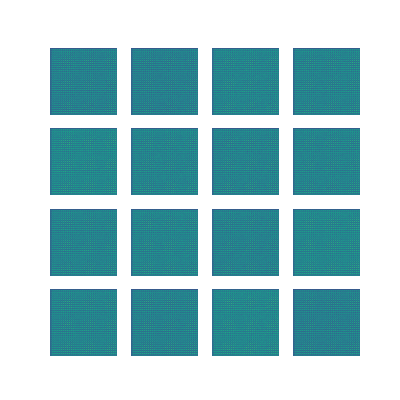
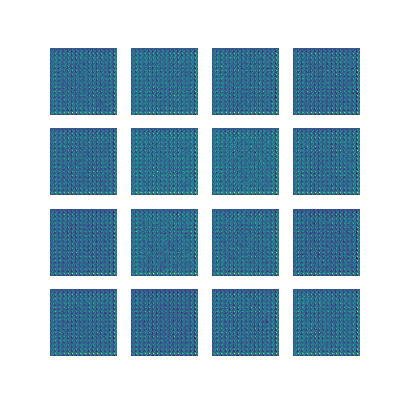
Add Test Code for TensorClassifier + Clean Code + Modify GAN code

diff --git a/tensorGAN.py b/tensorGAN.py
@@ -10,8 +10,8 @@ import time
 
 from IPython import display
 
-img_height = 128
-img_width = 128
+img_height = 64
+img_width = 64
 BATCH_SIZE = 256
 data_dir = "artbench-10-imagefolder-split/test"
 
@@ -42,32 +42,32 @@ print(train_dataset)
 
 def make_generator_model():
     model = tf.keras.Sequential()
-    model.add(layers.Dense(32*32*256, use_bias=False, input_shape=(100,)))
+    model.add(layers.Dense(16*16*256, use_bias=False, input_shape=(100,)))
     model.add(layers.BatchNormalization())
     model.add(layers.LeakyReLU())
 
-    model.add(layers.Reshape((32, 32, 256)))
-    assert model.output_shape == (None, 32, 32, 256)  # Note: None is the batch size
+    model.add(layers.Reshape((16, 16, 256)))
+    assert model.output_shape == (None, 16, 16, 256)  # Note: None is the batch size
 
     model.add(layers.Conv2DTranspose(128, (5, 5), strides=(1, 1), padding='same', use_bias=False))
-    assert model.output_shape == (None, 32, 32, 128)
+    assert model.output_shape == (None, 16, 16, 128)
     model.add(layers.BatchNormalization())
     model.add(layers.LeakyReLU())
 
     model.add(layers.Conv2DTranspose(64, (5, 5), strides=(2, 2), padding='same', use_bias=False))
-    assert model.output_shape == (None, 64, 64, 64)
+    assert model.output_shape == (None, 32, 32, 64)
     model.add(layers.BatchNormalization())
     model.add(layers.LeakyReLU())
 
     model.add(layers.Conv2DTranspose(3, (5, 5), strides=(2, 2), padding='same', use_bias=False, activation='tanh'))
-    assert model.output_shape == (None, 128, 128, 3)
+    assert model.output_shape == (None, 64, 64, 3)
 
     return model
 
 def make_discriminator_model():
     model = tf.keras.Sequential()
     model.add(layers.Conv2D(64, (5, 5), strides=(2, 2), padding='same',
-                                     input_shape=[128, 128, 3]))
+                                     input_shape=[64, 64, 3]))
     model.add(layers.LeakyReLU())
     model.add(layers.Dropout(0.3))
 
@@ -167,7 +167,7 @@ print (decision)
 generator_optimizer = tf.keras.optimizers.Adam(1e-4)
 
 discriminator_optimizer = tf.keras.optimizers.Adam(1e-4)
-checkpoint_dir = './training_checkpoints'
+checkpoint_dir = './training_checkpoints_smallDataset'
 checkpoint_prefix = os.path.join(checkpoint_dir, "ckpt")
 checkpoint = tf.train.Checkpoint(generator_optimizer=generator_optimizer,
                                  discriminator_optimizer=discriminator_optimizer,

diff --git a/tensorClassifier.py b/tensorClassifier.py
@@ -1,9 +1,12 @@
+import os
+import random
 from os import mkdir
 
 import matplotlib.pyplot as plt
 import numpy as np
 import PIL
 import tensorflow as tf
+from numpy import mean
 
 from tensorflow import keras
 from tensorflow.keras import layers
@@ -11,9 +14,9 @@ from tensorflow.keras.models import Sequential
 
 def buildModel():
   batch_size = 32
-  img_height = 128
-  img_width = 128
-  data_dir = "artbench-10-imagefolder-split/test"
+  img_height = 64
+  img_width = 64
+  data_dir = "artbench-10-imagefolder-split-two/train_two"
 
   train_ds = tf.keras.utils.image_dataset_from_directory(
     data_dir,
@@ -53,6 +56,7 @@ def buildModel():
     layers.MaxPooling2D(),
     layers.Conv2D(64, 3, padding='same', activation='relu'),
     layers.MaxPooling2D(),
+    layers.Dropout(0.2),
     layers.Flatten(),
     layers.Dense(128, activation='relu'),
     layers.Dense(num_classes)
@@ -64,13 +68,13 @@ def buildModel():
 
   model.summary()
 
-  epochs=5
+  epochs=15
   model.fit(
     train_ds,
     validation_data=val_ds,
     epochs=epochs
   )
-  model.save('saved_model/myTensorFlowModel')
+  model.save('saved_model/myTensorFlowClassifierModelMiniDropoutTwoNewWithout')
 
   # history.save('saved_model/myTensorFlowModel')
   # acc = history.history['accuracy']
@@ -95,29 +99,6 @@ def buildModel():
   # plt.title('Training and Validation Loss')
   # plt.show()
 
-def loadModel():
-  new_model = tf.keras.models.load_model('saved_model/myTensorFlowModel')
-  return new_model
 
-# buildModel()
-def getScore(model,img_array):
-  # sunflower_url = "https://storage.googleapis.com/download.tensorflow.org/example_images/592px-Red_sunflower.jpg"
-  # sunflower_path = tf.keras.utils.get_file('Red_sunflower', origin=sunflower_url)
-  #
-  # img = tf.keras.utils.load_img(
-  #     sunflower_path, target_size=(128, 128)
-  # )
-  # img_array = tf.keras.utils.img_to_array(img)
-  # print(len(img_array[0][0]))
-  img_array = tf.expand_dims(img_array, 0) # Create a batch
+buildModel()
 
-  predictions = model.predict(img_array)
-  score = tf.nn.softmax(predictions[0])
-  return score
-#
-# print(
-#     "This image most likely belongs to {} with a {:.2f} percent confidence."
-#     .format(class_names[np.argmax(score)], 100 * np.max(score))
-# )
-# model = loadModel()
-# getScore(model,"hi")

diff --git a/EvaluateTensorClassifier.py b/EvaluateTensorClassifier.py
@@ -1,0 +1,50 @@
+import os
+import random
+
+import numpy as np
+import tensorflow as tf
+from numpy import mean
+
+def loadModel(modelLocation):
+  new_model = tf.keras.models.load_model(modelLocation)
+  return new_model
+
+
+def getTestImages(folderName,n):
+  """ Function returns an array of n random image names from the given folder."""
+  testImages = []
+  labels = ["art_nouveau", "ukiyo_e"]
+  for label in labels:
+    files = os.listdir(folderName + label + "/")
+    random.shuffle(files)
+    testImages.append(files[0:n])
+  return testImages
+
+def getScore(model,directory):
+  confusionMatrix = [[0,0,0,0,0,0],[0,0,0,0,0,0]]
+  class_names = [""]
+  for folder in range(1):
+    scores = []
+    for filename in os.listdir(directory):
+      file_url = directory + class_names[folder] + "/" + filename
+
+      img = tf.keras.utils.load_img(file_url, target_size=(64, 64))
+      img_array = tf.keras.utils.img_to_array(img)
+      img_array = tf.expand_dims(img_array, 0) # Create a batch
+
+      predictions = model.predict(img_array)
+      score = tf.nn.softmax(predictions[0])
+      if np.argmax(score) == 0:
+        scores.append(100 * np.max(score))
+      confusionMatrix[folder][np.argmax(score)] += 1
+    print(mean(scores))
+  print(confusionMatrix)
+
+
+nouveau = ["/in-training/anna", "/in-training/henri", "/in-training/zinaida", "/not-in-training/benois", "/not-in-training/leon",
+ "/not-in-training/virginia"]
+ukiyo = ["/in-training/hishikawa","/in-training/isoda","/in-training/okumura","/not-in-training/hasegawa","/not-in-training/kubo","/not-in-training/yashima"]
+model = loadModel('saved_model/myTensorFlowClassifierModelMiniTwoNewWithout')
+for artist in ukiyo:
+  print(artist)
+  getScore(model,"specificArtists" + artist)

diff --git a/colorConversion.py b/colorConversion.py
@@ -58,15 +58,14 @@ def convertBackToImage(pixels,colorKey):
 
 def resizeImages(folderName):
     count = 0
-    labels = ["art_nouveau", "baroque", "expressionism", "impressionism", "post_impressionism", "realism",
-                "renaissance", "romanticism", "surrealism", "ukiyo_e"]
+    labels = ["art_nouveau", "expressionism", "post_impressionism", "realism", "surrealism", "ukiyo_e"]
     for label in labels:
         print("Starting Resize of " + label)
         files = os.listdir(folderName + label + "/")
         for file in files:
             with Image.open(folderName + label + "/" + file) as im:
-                imResize = im.resize((128,128))
-                imResize.save(folderName + label + "/" + file, "JPEG",quality=90)
+                imResize = im.resize((64,64))
+                imResize.save(folderName + label + "/" + file, "JPEG",quality=95)
             if (count % 1000) == 0:
                 print(count)
             count += 1

diff --git a/ridgeClassifier.py b/ridgeClassifier.py
@@ -37,9 +37,9 @@ def loadModel(modelFile):
     model = load(modelFile)
     return model
 
-filename = "artbench-10-imagefolder-split/test/post_impressionism/anita-malfatti_pedras-na-praia.jpg"
-model = trainModel("shadowTrainingSet_0.csv")
-saveModel(model,"myModel.joblib")
+filename = "artbench-10-imagefolder-split/train/art_nouveau/leon-bakst_elisium-1906.jpg"
+# model = trainModel("shadowTrainingSet_0.csv")
+# saveModel(model,"myModel.joblib")
 model = loadModel("myModel.joblib")
 prediction = testModel(model, filename)
 print(prediction)
